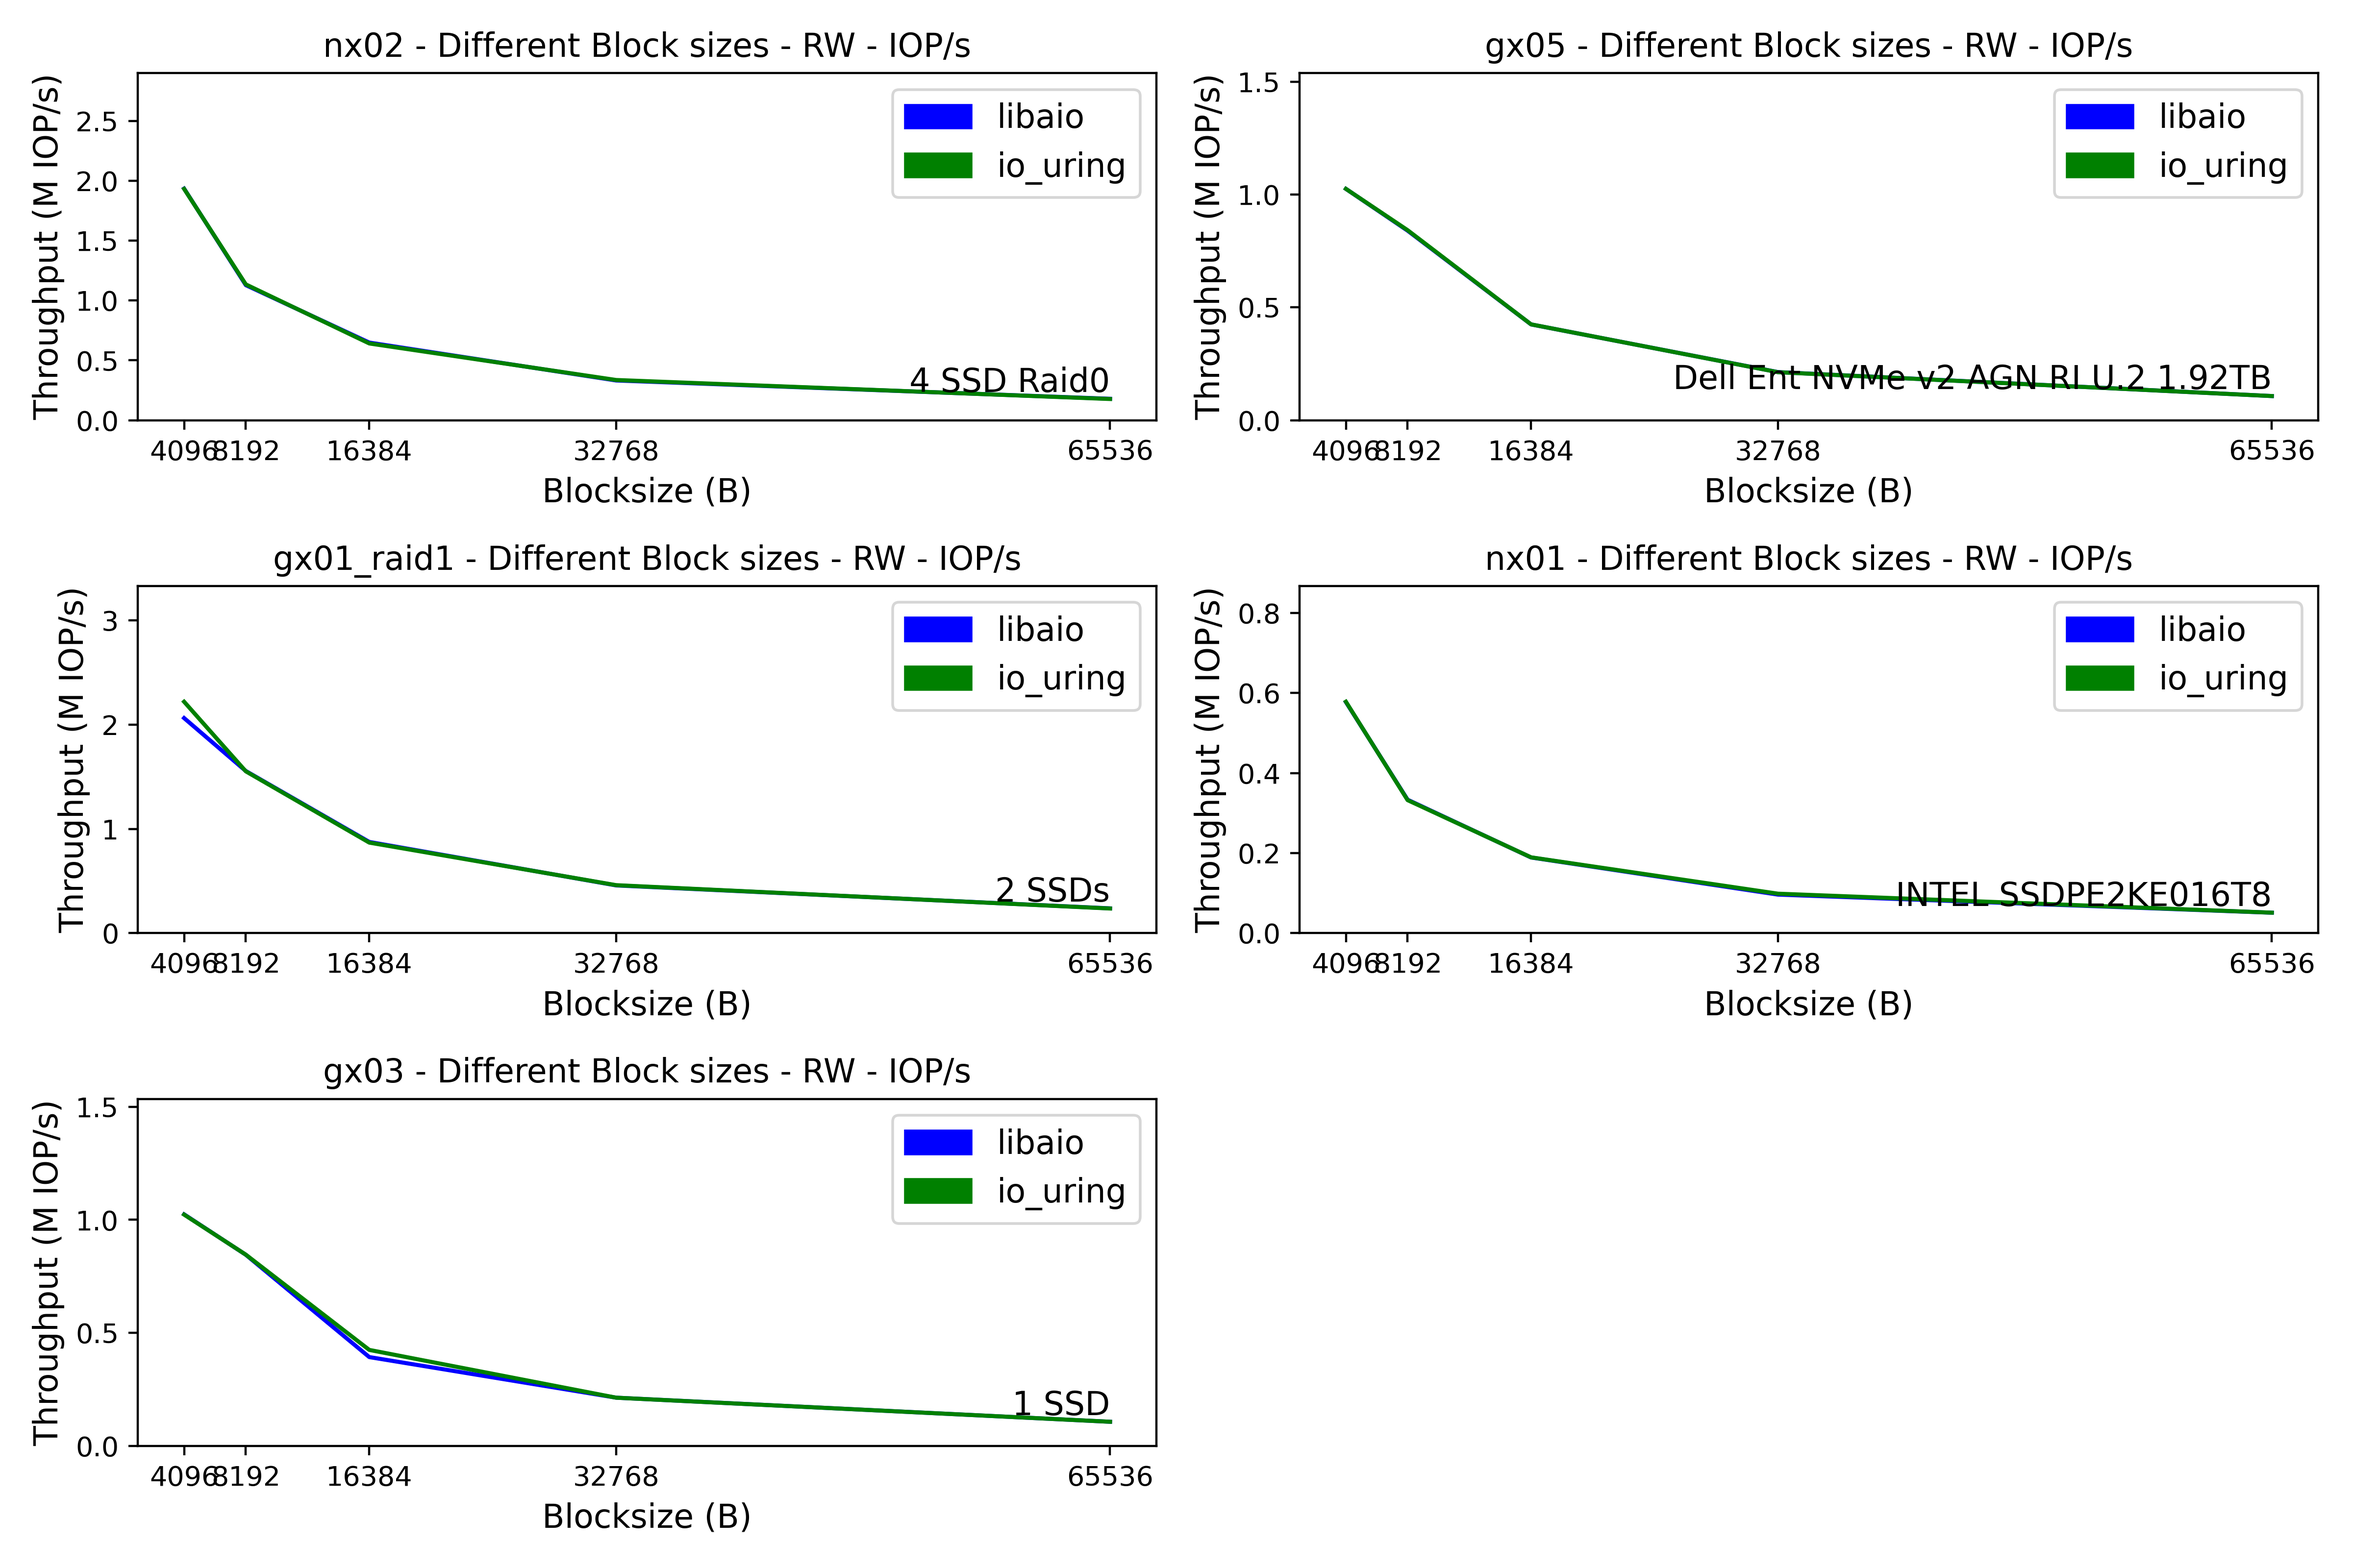
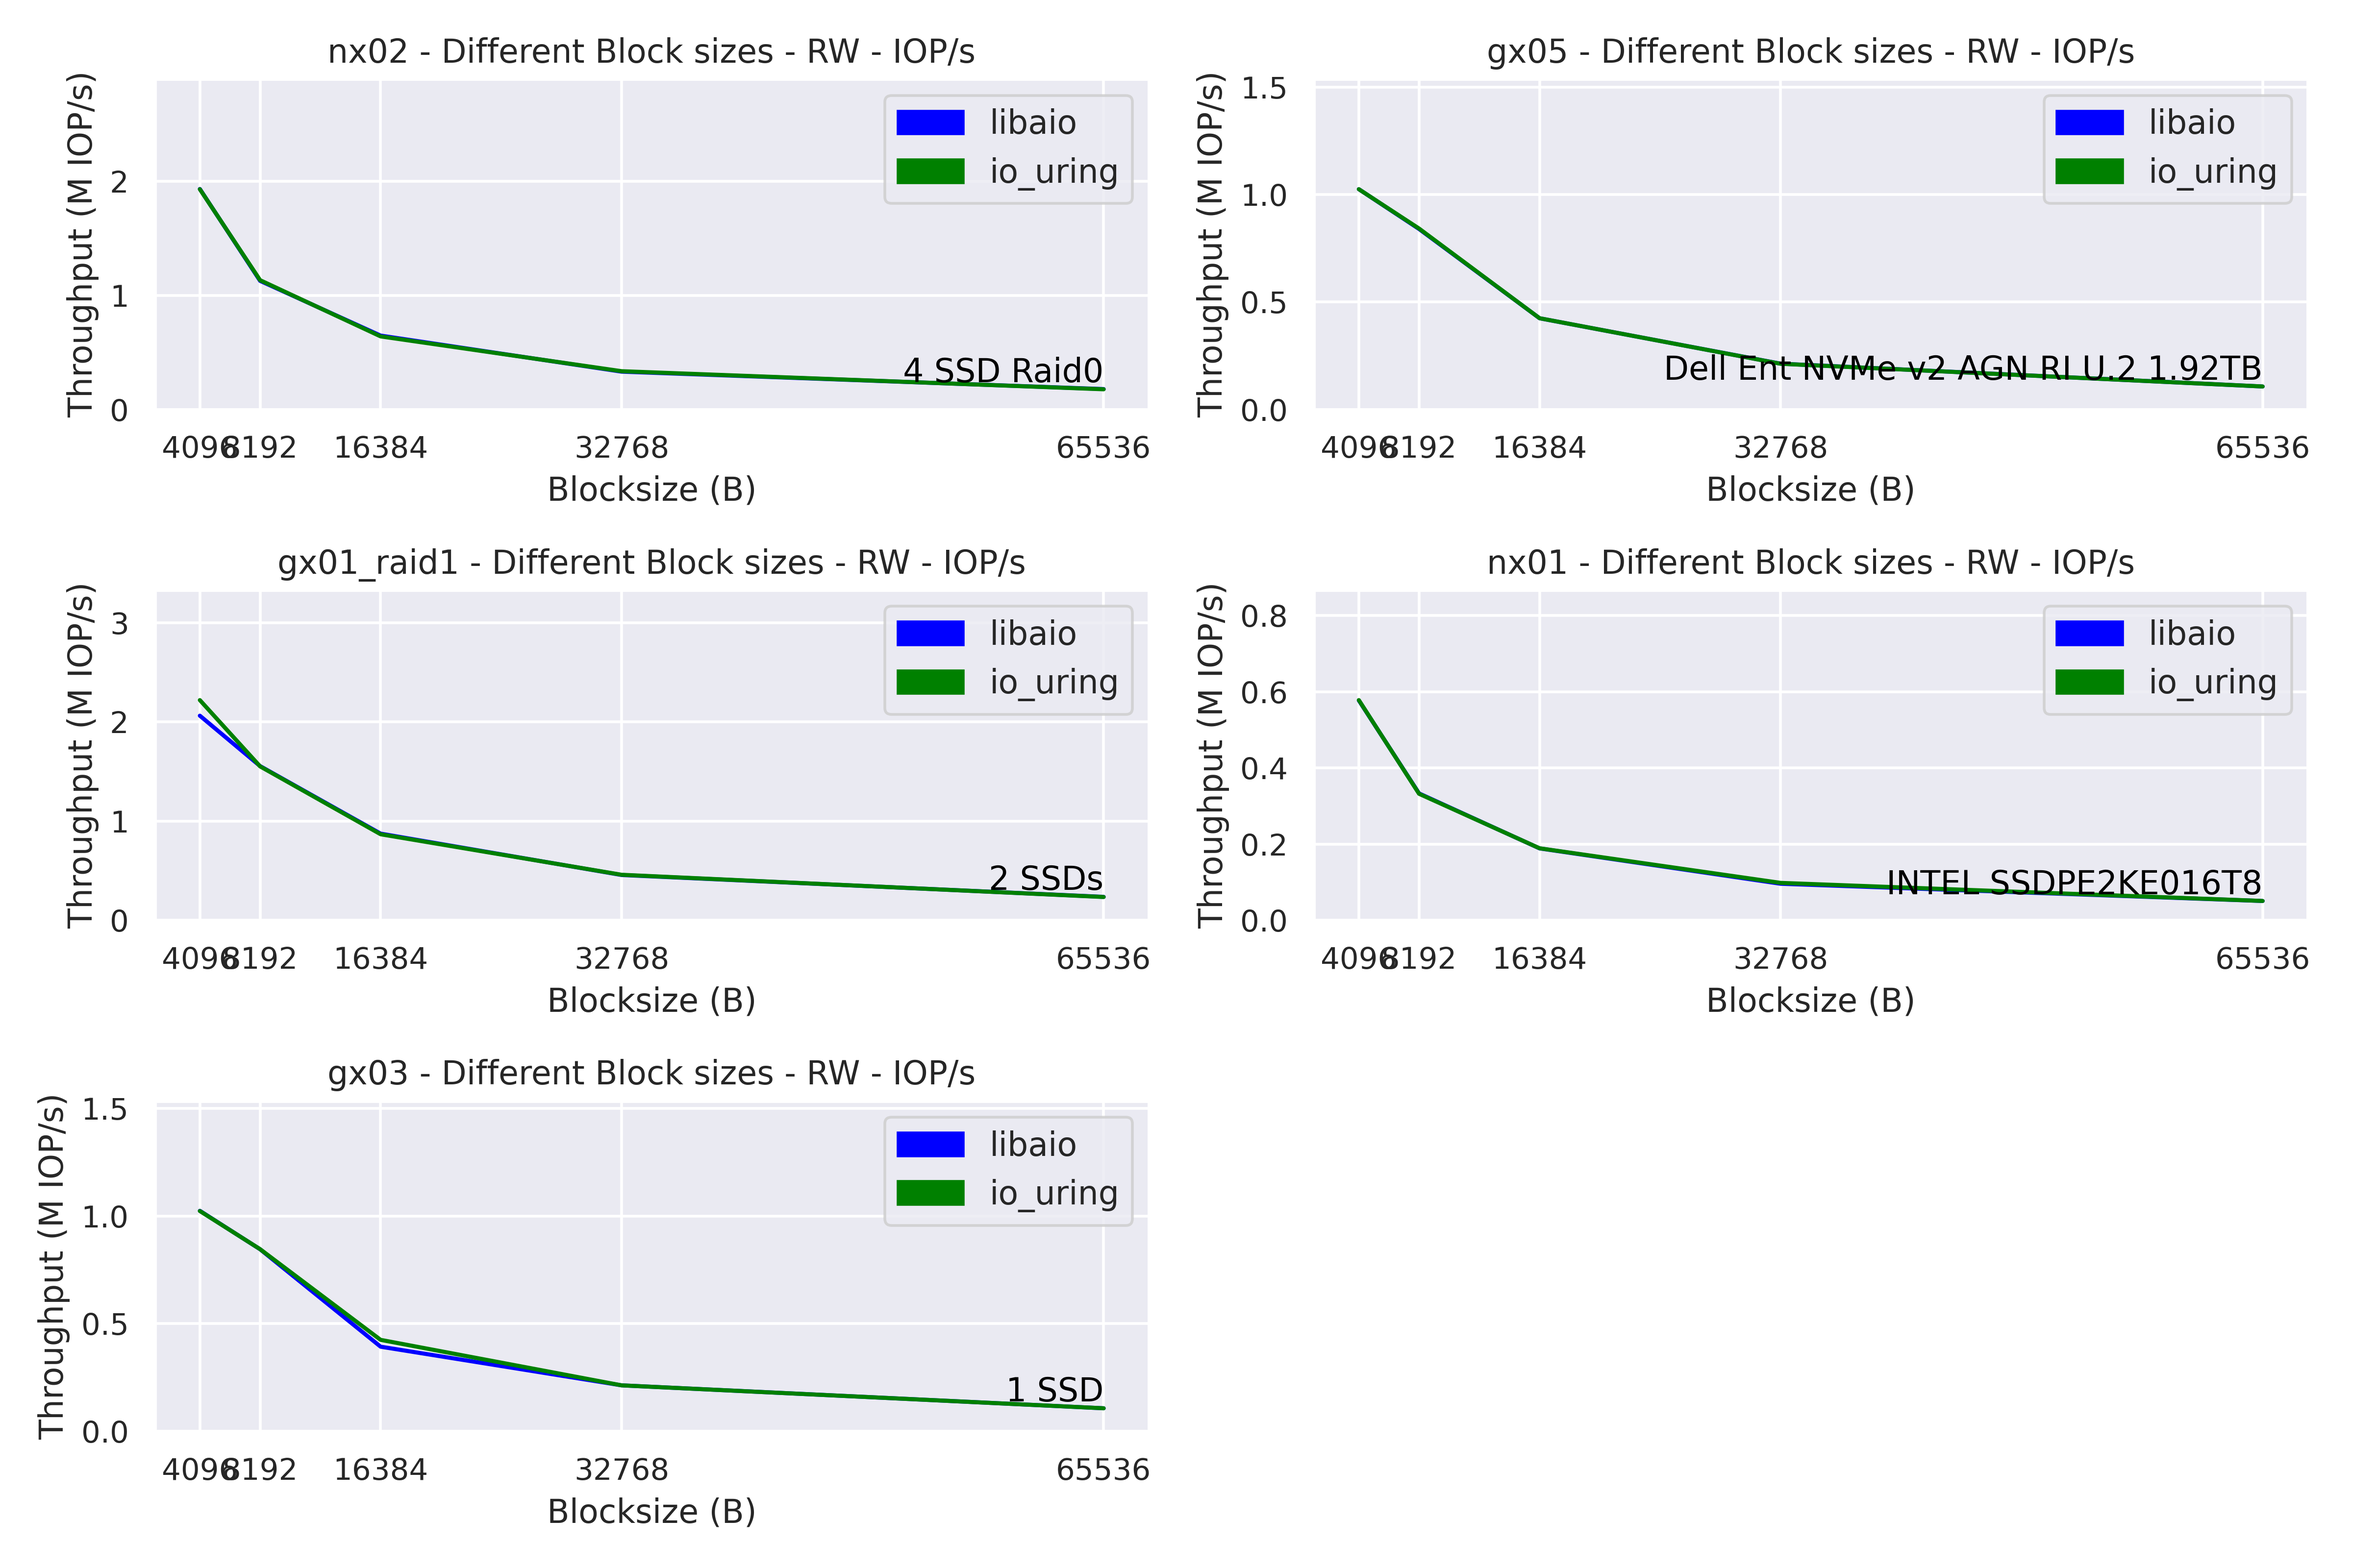
add repetitions, add seaborn

diff --git a/visualize.py b/visualize.py
@@ -2,7 +2,12 @@ import matplotlib.pyplot as plt
 import matplotlib.patches as mpatches
 import os
 import json
+import numpy as np
 from pathlib import Path
+import seaborn as sns
+
+sns.set()
+from benchmark_helper import aggregate_repeated_benchmark
 
 current_directory = Path(__file__).resolve().parent
 
@@ -124,7 +129,6 @@ def visualize_mixed_read_write(benchmarks):
                     for run in sorted(runs, key=lambda x: float(x["RW"]))
                     if float(run["RW"]) in RW
                 ]
-                print(engine, throughputs)
                 if engine == ENGINES[0]:
                     plt.text(
                         RW[-1],
@@ -173,7 +177,6 @@ def visualize_bs_read_write(benchmarks):
                         for run in sorted(runs, key=lambda x: int(x["BS"]))
                         if int(run["BS"]) in BS and int(run["RW"]) == rw
                     ]
-                    print(engine, throughputs)
                     if engine == ENGINES[0]:
                         plt.text(
                             BS[-1],
@@ -209,12 +212,10 @@ def visualize_bs_read_write_after_pause(benchmarks):
         plt.xlabel("Time waited (s)", fontdict={"fontsize": 12})
 
         for ssd, benchmark in benchmarks[machine].items():
-            print(benchmark)
             sorted_benchmark = sorted(benchmark, key=lambda x: int(x["n"]))
             for engine in ENGINES:
                 runs = [x for x in sorted_benchmark if x["IOENGINE"] == engine]
                 throughputs = [float(run["iops"]) for run in runs]
-                print(engine, throughputs)
 
                 plt.plot(
                     [int(run["time_alive"]) for run in runs],
@@ -230,22 +231,24 @@ def visualize_bs_read_write_after_pause(benchmarks):
     plt.show()
 
 
-def visualize_additional_write_random_read(benchmarks):
-    machine_configs = list(benchmarks.keys())  # Convert to list if necessary
+def visualize_additional_write_random_read(repeated_benchmark):
+    aggregate_repeated_benchmark(repeated_benchmark)
+    print(repeated_benchmark)
+    machine_configs = list(repeated_benchmark.keys())  # Convert to list if necessary
 
     for machine in machine_configs:
         plt.title(f"{machine} - Random Read Throughput After Additional Writes to SSD")
         plt.ylabel("Throughput (M IOP/s)", fontdict={"fontsize": 12})
         plt.xlabel("Additional writes to SSD (GB)", fontdict={"fontsize": 12})
 
-        for ssd, benchmark in benchmarks[machine].items():
-            print(benchmark)
+        for ssd, benchmark in repeated_benchmark[machine].items():
             sorted_benchmark = sorted(
                 benchmark, key=lambda x: int(x["GB_written_after_file"])
             )
             for engine in ENGINES:
                 runs = [x for x in sorted_benchmark if x["IOENGINE"] == engine]
-                throughputs = [float(run["iops"]) for run in runs]
+                throughputs = np.asarray([float(run["iops_mean"]) for run in runs])
+                stds = np.asarray([float(run["iops_std"]) for run in runs])
                 print(engine, throughputs)
 
                 plt.plot(
@@ -253,11 +256,15 @@ def visualize_additional_write_random_read(benchmarks):
                     throughputs,
                     color=COLORS_ENGINE[engine],
                 )
-
+                plt.fill_between(
+                    [int(run["GB_written_after_file"]) for run in runs],
+                    throughputs - stds,
+                    throughputs + stds,
+                    color=COLORS_ENGINE[engine],
+                    alpha=0.2,
+                )
         plt.legend(handles=HANDLES_ENGINE_LABELS, fontsize=12)
-        plt.ylim([min(throughputs) * 0.9, max(throughputs) * 1.1])
 
-    plt.tight_layout()  # Adjust layout to prevent overlap
     plt.savefig("figures/additional_write.png", dpi=400)
     plt.show()
 

diff --git a/bench.py b/bench.py
@@ -6,6 +6,8 @@ import json
 import yaml
 import itertools
 
+from copy import deepcopy
+
 
 def main():
     io_files = sys.argv[1]
@@ -14,11 +16,14 @@ def main():
     ssd = sys.argv[4]
     yaml_file = sys.argv[5]
     workload = sys.argv[6]
+    repetitions = sys.argv[7] if len(sys.argv >= 8) else 1
 
     for file in io_files.split(";"):
         subprocess.run(["truncate", "-s", "10G", file], check=True)
-    combinations = create_benchmark_configurations_from_yaml(yaml_file, workload, io_files)
-    call_iob(iob_path, result_file, ssd, combinations)
+    combinations = create_benchmark_configurations_from_yaml(
+        yaml_file, workload, io_files
+    )
+    call_iob(iob_path, result_file, ssd, combinations, repetitions)
     for file in io_files.split(";"):
         subprocess.run(["rm", file], check=True)
 
@@ -49,26 +54,42 @@ def save_results(result_file, results, ssd):
         json.dump({ssd: results}, json_file)
 
 
-def call_iob(iob_path, result_file, ssd, combinations, results=[], additional_info={}):
+def call_iob(
+    iob_path,
+    result_file,
+    ssd,
+    combinations,
+    repetitions,
+    results=[],
+    additional_info={},
+):
     for config in combinations:
-        print(config)
-        result_iob = subprocess.run(
-            f"""{iob_path}""",
-            text=True,
-            capture_output=True,
-            shell=True,
-            env=dict(os.environ.copy(), **config),
-        )
+        run_result = deepcopy(config)
+        run_result = dict(run_result, **additional_info)
+        run_result["repetitions"] = []
+        for repetition in range(repetitions):
+            print(config)
+            result_iob = subprocess.run(
+                f"""{iob_path}""",
+                text=True,
+                capture_output=True,
+                shell=True,
+                env=dict(os.environ.copy(), **config),
+            )
 
-        if result_iob.returncode == 0:
-            ret = parse_iob_output(result_iob.stdout)
-            results.append(dict(ret, **config, **additional_info))
-            save_results(result_file, results, ssd)
-        else:
-            print(result_iob.returncode)
-            print(result_iob.stdout)
-            print(result_iob.stderr)
+            if result_iob.returncode == 0:
+                ret = parse_iob_output(result_iob.stdout)
+                ret["repetition"] = repetition
+                run_result["repetitions"].append(ret)
+            else:
+                print(result_iob.returncode)
+                print(result_iob.stdout)
+                print(result_iob.stderr)
+        results.append(run_result)
+    save_results(result_file, results, ssd)
+
     return results
+
 
 def create_matrix(yaml_content):
     dimensions = yaml_content.keys()
@@ -79,9 +100,10 @@ def create_matrix(yaml_content):
         result.append(dict(zip(dimensions, combo)))
     return result
 
+
 def create_benchmark_configurations_from_yaml(yaml_file, workload, io_files):
     combinations = []
-    with open(yaml_file, 'r') as file:
+    with open(yaml_file, "r") as file:
         yaml_content = yaml.safe_load(file)
         combinations = create_matrix(yaml_content[workload]["matrix"])
         for comb in combinations:

diff --git a/benchmark_helper.py b/benchmark_helper.py
@@ -1,0 +1,20 @@
+import numpy as np
+
+DEFAULT_AGGS = ["iops"]
+
+
+def aggregate_repeated_benchmark(repeated_benchmark, to_be_aggregated=DEFAULT_AGGS):
+    for name, nodes in repeated_benchmark.items():
+        for ssd, reports in nodes.items():
+            for report in reports:
+                aggregations = {k: [] for k in to_be_aggregated}
+                print(report)
+                for repetition in report["repetitions"]:
+                    for agg in to_be_aggregated:
+                        aggregations[agg].append(float(repetition[agg]))
+
+                for agg in to_be_aggregated:
+                    data = np.asarray(aggregations[agg])
+                    report[agg + "_std"] = np.std(data)
+                    report[agg + "_mean"] = np.mean(data)
+                    report[agg + "_med"] = np.median(data)

diff --git a/bench_cache_break.py b/bench_cache_break.py
@@ -4,7 +4,7 @@ import time
 
 from bench import call_iob, create_benchmark_configurations_from_yaml
 
-GBS = [0, 1, 2, 4, 8, 16, 32, 48]
+GBS = [0, 1, 2, 4, 8, 16, 32, 48, 64]
 
 
 def main():
@@ -37,7 +37,7 @@ def main():
 
         if gb_after_bench_file > 0:
             subprocess.run(
-                ["./write_to_disk.sh", str(gb_after_bench_file), "4"], check=True
+                ["./write_to_disk.sh", str(gb_after_bench_file), "8"], check=True
             )
 
         results = call_iob(
@@ -45,6 +45,7 @@ def main():
             result_file,
             ssd,
             combinations,
+            3,
             results,
             {"GB_written_after_file": gb_after_bench_file},
         )

diff --git a/bench_paused.py b/bench_paused.py
@@ -38,6 +38,7 @@ def main():
             result_file,
             ssd,
             combinations,
+            5,
             results,
             {"n": i, "time_alive": i * wait_seconds},
         )
